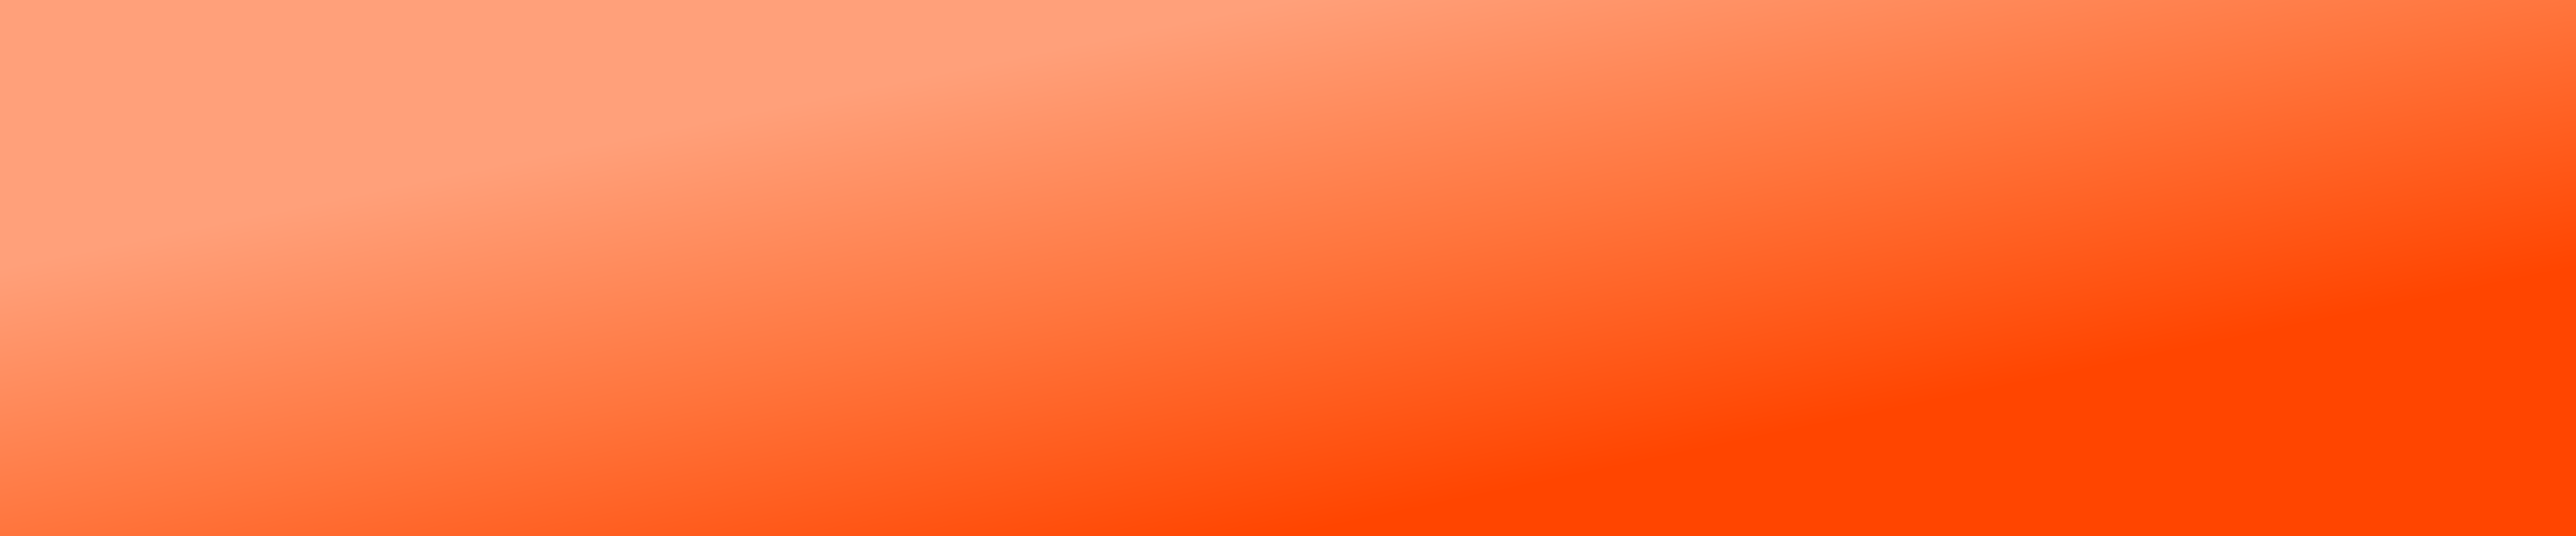
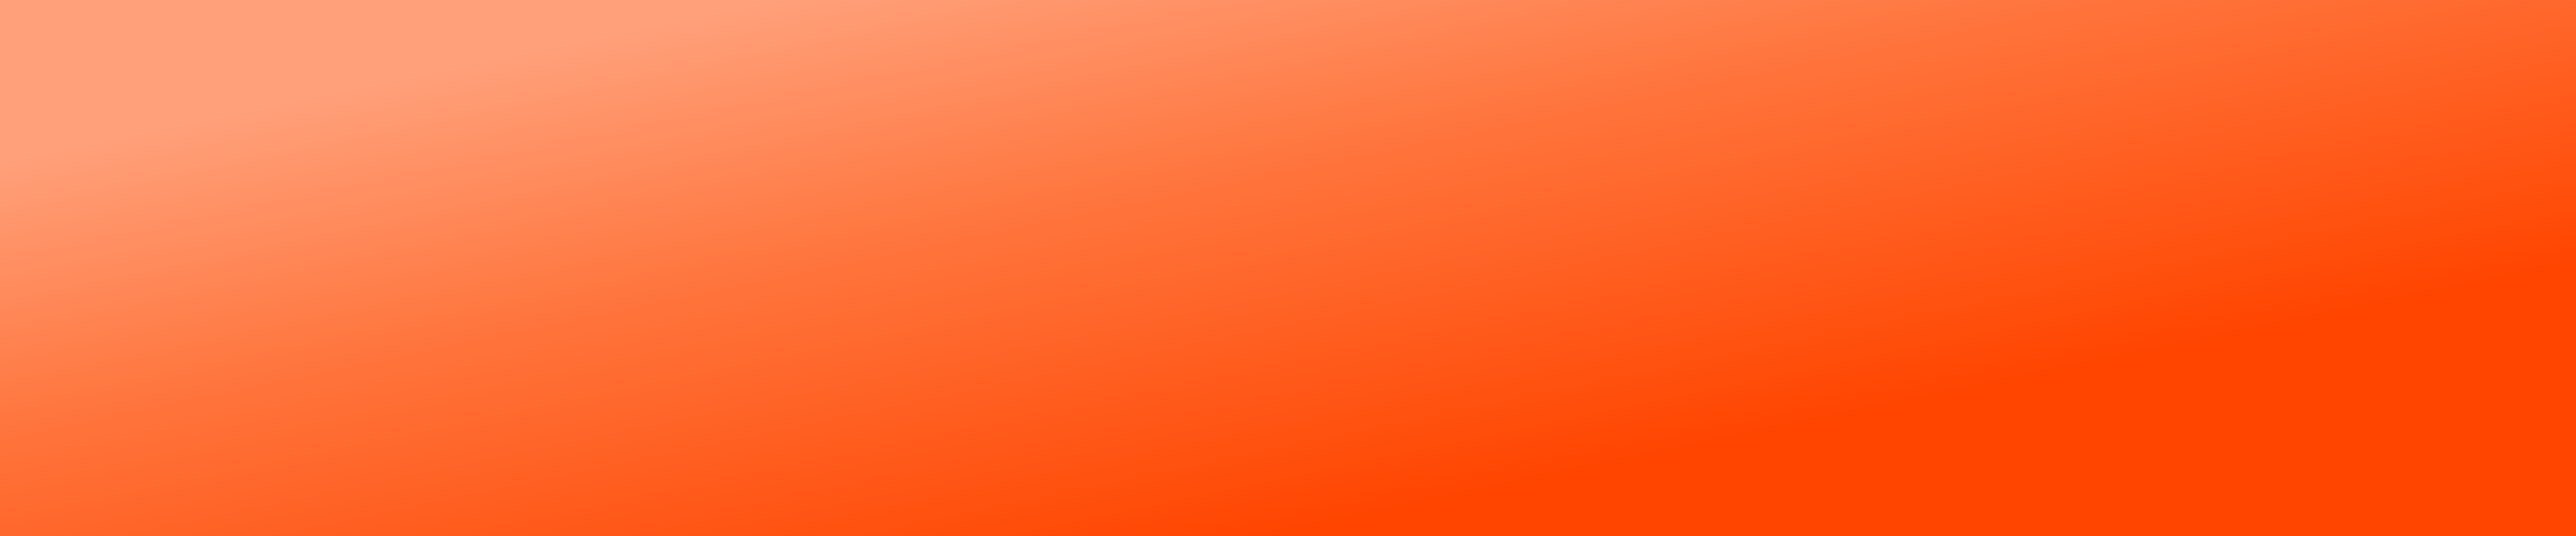
change to dark mode

Changed region(s): [[0.0, 0.0, 0.8125, 0.81]]

diff --git a/pages/index.tsx b/pages/index.tsx
@@ -5,7 +5,6 @@ import NavLink from '@/components/NavLink'
 import ContactButton from '@/components/ContactButton'
 import React, { useState } from 'react'
 import MobileNavLink from '@/components/MobileNavLink'
-import MobileContactButton from '@/components/MobileContactButton'
 import projects from './data/projects.json'
 import Project from '@/components/Project'
 import { ProjectType } from '@/types'
@@ -15,6 +14,7 @@ import {
   ExternalLink,
   LogoIcon,
   MenuIcon,
+  RightArrowIcon,
 } from '@/components/icons'
 
 export default function Home() {
@@ -41,9 +41,7 @@ export default function Home() {
       </Head>
 
       <nav
-        className={`transition-ease-in-out fixed bottom-auto left-0 top-0 z-10 w-full py-5 text-sm md:bg-light md:text-dark ${
-          menuOpen ? 'bg-dark text-white' : 'bg-light'
-        }`}
+        className={`transition-ease-in-out fixed bottom-auto left-0 top-0 z-10 w-full bg-dark py-5 text-sm md:bg-dark md:text-light ${''}`}
       >
         <div
           className={`ml-auto mr-auto flex max-w-7xl items-center justify-between px-10 xl:px-0`}
@@ -51,6 +49,7 @@ export default function Home() {
           <Link
             className="wght-600 group w-full flex-grow justify-between"
             href="/"
+            onClick={() => setMenuOpen(false)}
           >
             <div className="flex items-center gap-2">
               <div
@@ -85,7 +84,7 @@ export default function Home() {
       </nav>
       {/* mobile menu */}
       <div
-        className={`transition-ease-in-out fixed z-50 mt-[4.25rem] h-screen w-full border-t border-gray-500 bg-dark px-10 text-white transition-all md:hidden ${
+        className={`transition-ease-in-out fixed z-50 mt-[4.25rem] h-screen w-full border-t border-[#2f2f32] bg-dark px-10 text-white transition-all md:hidden ${
           menuOpen ? '-translate-x-0' : '-translate-x-full'
         }`}
       >
@@ -102,17 +101,27 @@ export default function Home() {
           <MobileNavLink setMenuOpen={setMenuOpen} href="/Yax_Patel_Resume.pdf">
             resume
           </MobileNavLink>
-          <MobileContactButton />
+
+          <Link
+            href="/#contact"
+            className="my-2 flex max-w-fit items-center justify-center overflow-hidden rounded-full bg-light px-5 py-3 text-2xl leading-5 text-dark"
+          >
+            <div className="flex w-full gap-4">
+              <div className="flex items-center gap-2">Contact</div>
+              <RightArrowIcon />
+            </div>
+          </Link>
         </div>
       </div>
 
       <main className="">
         <section className="w-full">
           <div className="mx-auto flex h-screen max-w-7xl flex-col justify-center px-10 xl:px-0">
-            {/* <div className="relative translate-y-24 overflow-hidden bg-dark text-9xl text-light">
+            {/* <div className="relative translate-y-24 overflow-hidden bg-light text-9xl text-dark">
               <div>TEST</div>
             </div> */}
             {/* position: relative; display: inline-block; transform: translate(0px, 0%); */}
+
             <h1 className="wght-600 text-5xl md:text-9xl">Yax Patel</h1>
             <p className="text-2xl md:text-4xl">
               A Software Engineering student at McMaster University.
@@ -169,7 +178,12 @@ export default function Home() {
           </div>
 
           <div>
-            <Link className="" href="https://github.com/ypatel2022/yaxpatel.me">
+            <Link
+              target="_blank"
+              rel="noopener noreferrer"
+              className=""
+              href="https://github.com/ypatel2022/yaxpatel.me"
+            >
               <div className="text-center transition-all hover:scale-110">
                 <GitHubIcon />
               </div>

diff --git a/tailwind.config.js b/tailwind.config.js
@@ -11,6 +11,67 @@ module.exports = {
       colors: {
         light: '#fffdf3',
         dark: '#161618',
+
+        'indian-orange': '#ff8000',
+        green: {
+          650: '#008000',
+        },
+      },
+      animation: {
+        'gradient-x': 'gradient-x 15s ease infinite',
+        'gradient-y': 'gradient-y 15s ease infinite',
+        'gradient-xy': 'gradient-xy 15s ease infinite',
+      },
+      keyframes: {
+        'gradient-y': {
+          '0%, 100%': {
+            'background-size': '400% 400%',
+            'background-position': 'center top',
+          },
+          '50%': {
+            'background-size': '200% 200%',
+            'background-position': 'center center',
+          },
+        },
+        'gradient-x': {
+          '0%, 100%': {
+            'background-size': '200% 200%',
+            'background-position': 'left center',
+          },
+          '50%': {
+            'background-size': '200% 200%',
+            'background-position': 'right center',
+          },
+        },
+        'gradient-xy': {
+          '0%, 100%': {
+            'background-size': '400% 400%',
+            'background-position': 'left center',
+          },
+          '50%': {
+            'background-size': '200% 200%',
+            'background-position': 'right center',
+          },
+        },
+      },
+      animation: {
+        blob: 'blob 7s infinite',
+      },
+      keyframes: {
+        blob: {
+          '0%': {
+            transform: 'translate(0px, 0px) scale(1)',
+          },
+          '33%': {
+            transform: 'translate(50px, -30px) scale(1.1)',
+          },
+          '66%': {
+            transform: 'translate(-20px, 20px) scale(0.9)',
+          },
+          '100%': {
+            transform: 'translate(0px, 0px) scale(1)',
+          },
+        },
       },
     },
   },

diff --git a/pages/api/project-background.tsx b/pages/api/project-background.tsx
@@ -8,8 +8,8 @@ export const config = {
 
 export default async function handler(req: NextRequest) {
   /*
-    'linear-gradient(to bottom right, #127adc 25%, #2d88de 50%, #4197e8 75%)',
-    'linear-gradient(to bottom right, #ffa07a 25%, #ff753d 50%, #ff4500 75%)',
+    'linear-gradient(to bottom right, #127adc 25%, #2d88de 40%, #4197f8 75%)',
+    'linear-gradient(to bottom right, #ffa07a 15%, #ff753d 40%, #ff4500 75%)',
     'linear-gradient(to bottom right, #020004 25%, #0d001b 50%, #100020 75%)',
     'linear-gradient(to bottom right, #26293f 25%, #304758 50%, #37777d 75%)',
     'linear-gradient(to bottom right, #28d9bc 25%, #30d9be 50%, #7de7d6 75%)',
@@ -26,7 +26,7 @@ export default async function handler(req: NextRequest) {
           width: '100%',
           display: 'flex',
           backgroundImage:
-            'linear-gradient(to top right, #fffdf3 0%, #fffdf3 60%, #fffdf3 95%)',
+            'linear-gradient(to bottom right, #020004 25%, #110024 50%, #190033 75%)',
         }}
       ></div>
     ),

diff --git a/styles/globals.css b/styles/globals.css
@@ -40,13 +40,11 @@ html,
 body {
   scroll-behavior: smooth;
   text-rendering: optimizeLegibility;
-  background-color: #fffdf3;
-  color: #161618;
   font-family: 'Satoshi-Variable', sans-serif;
   -webkit-font-smoothing: antialiased;
   -moz-osx-font-smoothing: grayscale;
   scroll-behavior: smooth;
-  @apply selection:bg-dark selection:text-light;
+  @apply bg-dark text-light selection:bg-light selection:text-dark;
 }
 
 /* preload images */
@@ -73,7 +71,7 @@ h1 {
 
 nav:after {
   content: '';
-  background: black;
+  background: #2f2f32;
   position: absolute;
   bottom: 0;
   left: 0;
@@ -126,7 +124,7 @@ bg-project-image {
 
   .project:after {
     content: '';
-    background: #f1efe2;
+    background: #2f2f32;
     position: absolute;
     /* bottom: 0; */
     /* left: 0; */

diff --git a/components/ContactButton.tsx b/components/ContactButton.tsx
@@ -2,11 +2,11 @@ import Link from 'next/link'
 import React from 'react'
 import RightArrowIcon from './icons/RightArrowIcon'
 
-export default function ContactButton() {
+export default function ContactButton({ className }: { className?: string }) {
   return (
     <Link
       href="/#contact"
-      className="group/contact relative flex items-center justify-center overflow-hidden rounded-full bg-dark px-5 py-2 leading-5 text-light"
+      className={`group/contact relative flex items-center justify-center overflow-hidden rounded-full bg-light px-5 py-2 leading-5 text-dark ${className}`}
     >
       <div className="w-full">
         <div className="w-full transition-transform duration-300 ease-in-out group-hover/contact:-translate-y-12">

diff --git a/components/Project.tsx b/components/Project.tsx
@@ -16,11 +16,11 @@ export default function Project({
     <div
       onMouseEnter={() => setHover(true)}
       onMouseLeave={() => setHover(false)}
-      className="project w-full px-10 text-neutral-900 transition-all hover:text-white xl:px-0"
+      className="project w-full bg-center px-10 text-white transition-all xl:px-0"
       style={{
         background: hover
           ? `url(/project-backgrounds/project-background-${index + 1}.png)`
-          : `url(/project-backgrounds/project-background-default.png)`,
+          : `url(/project-backgrounds/project-background-default-dark.png)`,
       }}
     >
       <div className="mx-auto grid w-full max-w-7xl grid-cols-8 items-center gap-4 py-8">

diff --git a/components/ExternalLink.tsx b/components/ExternalLink.tsx
@@ -14,7 +14,7 @@ export default function ExternalLink({
       target="_blank"
       rel="noopener noreferrer"
       href={href}
-      className="group relative flex max-w-fit items-center justify-center gap-4 overflow-hidden rounded-full bg-light px-5 py-2 leading-5 text-dark"
+      className="group relative flex max-w-fit items-center justify-center gap-4 overflow-hidden rounded-full bg-light px-5 py-2 leading-5 text-dark md:bg-dark md:text-light"
     >
       <div className="w-full">
         <div className="w-full transition-transform duration-300 ease-in-out group-hover:-translate-y-12">
